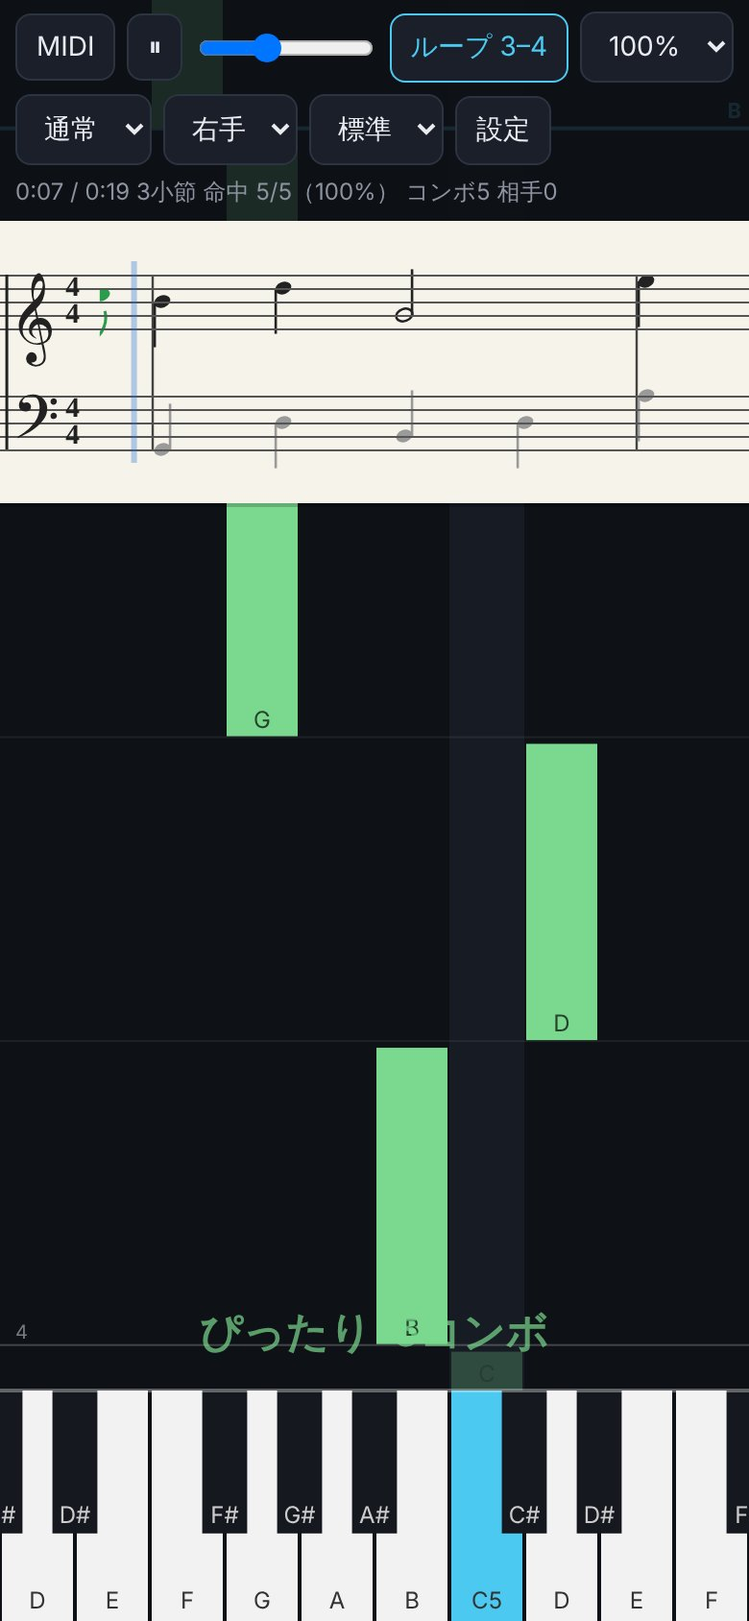
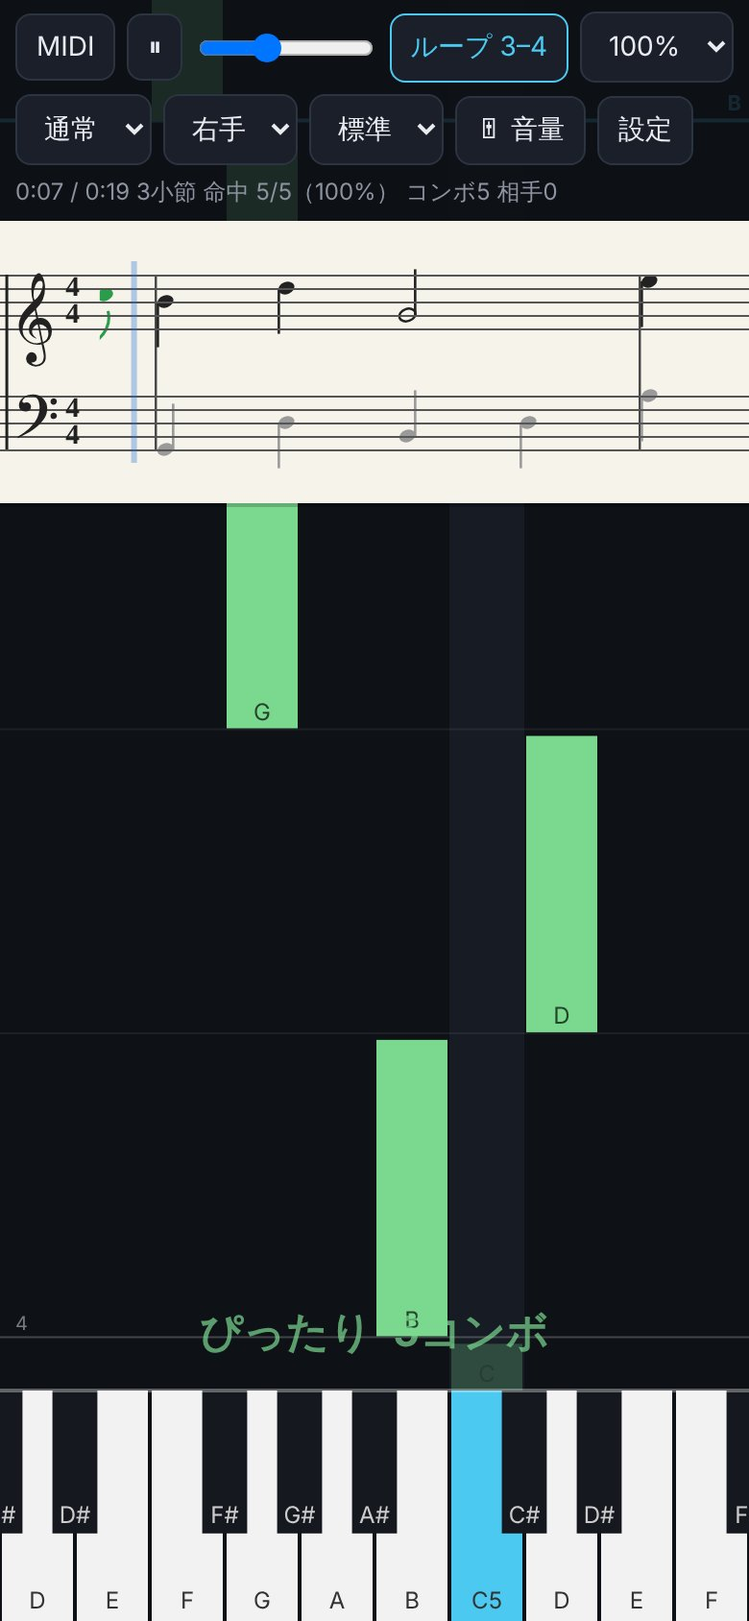
画面に出したままのミキサーを追加（全体・自分の音・伴奏・カウント・メトロノーム、パートごとの音量・ミュート・ソロ）
Claude-Session: https://claude.ai/code/session_01Ftk17LdcXJRbzQtFfC2ce1

diff --git a/piano-falls.html b/piano-falls.html
@@ -3,7 +3,29 @@
 <style>
 :root{--bg:#0e1116;--p:#1a1f29;--fg:#e8ebf0;--d:#8d93a0;--ac:#4cc9f0}
 *{box-sizing:border-box}html,body{margin:0;height:100%;background:var(--bg);color:var(--fg);font:14px system-ui,"Hiragino Sans","Noto Sans JP",sans-serif;overflow:hidden;touch-action:none}
-#c{position:absolute;inset:0;width:100%;height:100%}
+#c{position:absolute;top:0;left:0;width:100%;height:100%}
+#mx{position:absolute;left:0;width:230px;overflow:auto;background:#141820;border-right:1px solid #2c3442;padding:8px;touch-action:pan-y;font-size:13px;z-index:2}
+#mx.float{width:min(300px,88vw);border:1px solid #2c3442;border-radius:0 12px 12px 0;box-shadow:4px 0 16px #0008}
+#mx .mxh{display:flex;align-items:center;gap:6px;margin-bottom:6px}#mx .mxh b{flex:1}
+#mx button{padding:4px 8px;font-size:12px;border-radius:6px}
+#mx .mxg{background:#1a1f29;border:1px solid #2c3442;border-radius:8px;padding:6px;margin-bottom:8px}
+#mx .mr{display:flex;align-items:center;gap:6px;margin:3px 0}
+#mx .mr .mb{width:98px;padding:4px 6px;text-align:left;white-space:nowrap;overflow:hidden;text-overflow:ellipsis}
+#mx .mb.off{opacity:.45;text-decoration:line-through}
+#mx input[type=range]{flex:1;min-width:0;accent-color:var(--ac)}
+#mx .mv{width:26px;text-align:right;color:var(--d);font-variant-numeric:tabular-nums}
+#mx .mxs{color:var(--ac);font-size:12px;margin:8px 2px 4px}
+#mx .stp{border-bottom:1px solid #232a35;padding:4px 2px}
+#mx .stp .t{display:flex;align-items:center;gap:5px}
+#mx .stp .t span{flex:1;white-space:nowrap;overflow:hidden;text-overflow:ellipsis}
+#mx .stp i{width:10px;height:10px;border-radius:50%;flex:none}
+#mx .stp .sb{padding:2px 7px;min-width:26px}
+#mx .sb.on{background:var(--ac);color:#06212b;border-color:var(--ac)}
+#mx .stp .bt{display:flex;align-items:center;gap:5px;margin-top:3px}
+#mx .stp select{padding:3px 4px;font-size:12px}
+#mx .stp.dim span{opacity:.5}
+#mx .n{margin:4px 2px 0}
+#mxb.on{border-color:var(--ac);color:var(--ac)}
 #bar{position:absolute;left:0;right:0;top:0;display:flex;gap:6px;flex-wrap:wrap;align-items:center;padding:calc(6px + env(safe-area-inset-top,0px)) 8px 6px;background:rgba(14,17,22,.88)}
 button,select,.b,textarea{background:var(--p);color:var(--fg);border:1px solid #2c3442;border-radius:8px;padding:8px 10px;font:inherit}
 #lp.on{border-color:var(--ac);color:var(--ac)}
@@ -20,6 +42,17 @@ button,select,.b,textarea{background:var(--p);color:var(--fg);border:1px solid #
 [hidden]{display:none!important}
 </style></head><body>
 <canvas id="c"></canvas>
+<div id="mx" hidden><div class="mxh"><b>音量</b><button id="mxr" title="パートの音量を初期値に戻し、ミュートとソロを解除">初期値に戻す</button><button id="mxc" title="閉じる">✕</button></div>
+<div class="mxg">
+<div class="mr"><button class="mb" data-m="all" title="押すとミュート">全体</button><input type="range" id="vAll" min="0" max="100" value="100"><span class="mv"></span></div>
+<div class="mr"><button class="mb" data-m="mine" title="押すとミュート">自分の音</button><input type="range" id="pv" min="0" max="100" value="80"><span class="mv"></span></div>
+<div class="mr"><button class="mb" data-m="back" title="押すとミュート">伴奏</button><input type="range" id="vBk" min="0" max="100" value="100"><span class="mv"></span></div>
+<div class="mr"><button class="mb" data-m="ci" title="押すとカウントのオン・オフ">カウント</button><input type="range" id="vCt" min="0" max="100" value="80"><span class="mv"></span></div>
+<div class="mr"><button class="mb" data-m="mt" title="押すとメトロノームのオン・オフ">メトロノーム</button><input type="range" id="vMt" min="0" max="100" value="70"><span class="mv"></span></div>
+</div>
+<div class="mxs">自分が弾くパート</div><div id="mxP"></div>
+<div class="mxs">伴奏のパート</div><div id="mxA"></div>
+<div class="n">M＝ミュート、S＝ソロ（押したパートだけ鳴らす）。左下の欄で「演奏（自分で弾く）／自動（伴奏）／消音」を変えられます。</div></div>
 <div id="res" hidden><div id="rk" class="k"></div><div id="rsS" class="s"></div><div id="rsc"></div><table id="rt2"></table><div id="rb" style="color:#7bd88f;min-height:1.4em"></div><button id="rx">閉じる</button></div>
 <div id="bar">
 <label class="b">MIDI<input id="f" type="file" accept=".mid,.midi" hidden></label>
@@ -29,10 +62,9 @@ button,select,.b,textarea{background:var(--p);color:var(--fg);border:1px solid #
 <select id="md"><option value="free">通常<option value="wait">待つ</select>
 <select id="hd"><option value="B">両手<option value="R">右手<option value="L">左手</select>
 <select id="zm"><option value=".6">遅<option value="1" selected>標準<option value="1.6">速</select>
-<button id="cf">設定</button><span id="st">MIDIファイルを読み込んでください</span></div>
+<button id="mxb">🎚 音量</button><button id="cf">設定</button><span id="st">MIDIファイルを読み込んでください</span></div>
 <div id="pn" hidden><h3>最近開いた曲</h3><div id="rc" class="n">まだありません</div>
 <h3>トラック（演奏＝自分で弾く／自動＝伴奏）</h3><div id="tl"></div>
-<div class="r"><span>自分が弾く音の大きさ</span><input id="pv" type="range" min="0" max="100" value="80" style="width:45%"></div>
 <div class="r"><span>移調（半音）</span><select id="tp"></select></div>
 <div class="n">右の欄は、そのトラックをどちらの手で弾くかです。「分割」は、下の高さを境に、上を右手、下を左手にします。上のバーの「両手／右手／左手」で片手だけ練習すると、もう片方は自動で鳴ります。</div>
 <div class="r"><span>分割する高さ（ここから上が右手）</span><select id="sp"></select></div>
@@ -72,7 +104,7 @@ button,select,.b,textarea{background:var(--p);color:var(--fg);border:1px solid #
 <div id="mi" style="margin-top:6px;color:var(--d)"></div></div>
 <script>
 const $=id=>document.getElementById(id),cv=$('c'),g=cv.getContext('2d');
-let W,H;const rs=()=>{const d=devicePixelRatio||1;W=innerWidth;H=innerHeight;cv.width=W*d;cv.height=H*d;g.setTransform(d,0,0,d,0,0);layout()};
+let W,H;const rs=()=>{const d=devicePixelRatio||1;W=innerWidth-(window.OFF||0);H=innerHeight;cv.style.left=(innerWidth-W)+'px';cv.style.width=W+'px';cv.width=W*d;cv.height=H*d;g.setTransform(d,0,0,d,0,0);layout()};
 const S={notes:[],tr:[],len:0,pos:0,playing:false,rate:1,pos0:0,t0:0,lo:48,hi:84,hit:0,miss:0,x:{},ww:10,ai:0,mi:0,wi:0,li:0,waiting:false,
 bars:[],beats:[],loop:null,la:null,nn:0,kb:48,kbOn:false,wl:0,nw:22,sp:60,bt:[],bk:0,bk2:0,cf:null,fg:{},sel:-1,rects:[]};
 const held=new Map(),COL=['#4cc9f0','#f72585','#b5e48c','#ffd166','#9d4edd','#ff9e00','#06d6a0'],isB=p=>[1,3,6,8,10].includes(p%12),now=()=>performance.now();
@@ -97,13 +129,15 @@ if(KR[m]){let[lo,hi]=KR[m];if(sel.length&&hi-lo<60){const sh=Math.round(((mn+mx)
 else setView(Math.max(21,mn-1),Math.min(108,mx+1),m=='play'?10:7)}
 // ---- 設定の保存 ----
 const PK='piano-falls-prefs';let PR={};try{PR=JSON.parse(localStorage.getItem(PK))||{}}catch(e){}
-const sv=()=>{try{localStorage.setItem(PK,JSON.stringify({nn:S.nn,bl:$('bl').checked,zm:$('zm').value,kr:$('kr').value=='man'?undefined:$('kr').value,cm:$('cm').value,mt:$('mt').checked,ci:$('ci').checked,wa:$('wa').value,hd:$('hd').value,sp:S.sp,pv:$('pv').value,snd:$('snd').value,pd:$('pd').checked,sh:$('sh').value,ss:$('ss').value}))}catch(e){}};
+const sv=()=>{try{localStorage.setItem(PK,JSON.stringify({nn:S.nn,bl:$('bl').checked,zm:$('zm').value,kr:$('kr').value=='man'?undefined:$('kr').value,cm:$('cm').value,mt:$('mt').checked,ci:$('ci').checked,wa:$('wa').value,hd:$('hd').value,sp:S.sp,pv:$('pv').value,vAll:$('vAll').value,vBk:$('vBk').value,vCt:$('vCt').value,vMt:$('vMt').value,mxo:MX.open,snd:$('snd').value,pd:$('pd').checked,sh:$('sh').value,ss:$('ss').value}))}catch(e){}};
 // ---- 音 ----
-let ac,mg;function au(){if(!ac){ac=new AudioContext();mg=ac.createGain();mg.gain.value=.5;mg.connect(ac.destination)}if(ac.state!='running')ac.resume();return ac}
+// 音の行き先：各パート→伴奏(bB)、自分の音(bM)、カウント(bC)、メトロノーム(bT)→全体(mg)→出力
+let ac,mg,bM,bB,bC,bT,OUTD;function au(){if(!ac){ac=new AudioContext();mg=ac.createGain();mg.connect(ac.destination);
+[bM,bB,bC,bT]=[0,0,0,0].map(()=>{const x=ac.createGain();x.connect(mg);return x});mixApply()}if(ac.state!='running')ac.resume();return ac}
 function simpleTone(p,v,when,dur){const a=au(),o=a.createOscillator(),o2=a.createOscillator(),e=a.createGain(),f=440*2**((p-69)/12),vv=v/127*.3;
 o.type='triangle';o2.type='sine';o.frequency.value=f;o2.frequency.value=f*2;
 e.gain.setValueAtTime(.0001,when);e.gain.linearRampToValueAtTime(vv,when+.008);e.gain.exponentialRampToValueAtTime(vv*.4,when+.7);
-o.connect(e);o2.connect(e);e.connect(mg);o.start(when);o2.start(when);
+o.connect(e);o2.connect(e);e.connect(OUTD||mg);o.start(when);o2.start(when);
 const rel=t=>{e.gain.cancelScheduledValues(t);e.gain.setValueAtTime(vv*.3,t);e.gain.exponentialRampToValueAtTime(.0001,t+.25);o.stop(t+.3);o2.stop(t+.3)};
 if(dur!=null)rel(when+dur);return rel}
 const relAt=(e,t,tau)=>{t=Math.max(t,ac.currentTime);try{e.gain.cancelAndHoldAtTime(t)}catch(x){e.gain.cancelScheduledValues(t)}e.gain.setTargetAtTime(.0001,t,tau);return t};
@@ -112,10 +146,10 @@ function pno(p,v,when,dur){const a=au(),f=440*2**((p-69)/12),vel=v/127,vv=vel*.3
 const e=a.createGain(),lp=a.createBiquadFilter();lp.type='lowpass';lp.frequency.setValueAtTime(Math.min(14000,f*(3+10*vel)),when);lp.frequency.exponentialRampToValueAtTime(Math.max(f*1.5,200),when+T*.7);
 e.gain.setValueAtTime(.0001,when);e.gain.linearRampToValueAtTime(vv,when+.004);e.gain.exponentialRampToValueAtTime(vv*.35,when+.25);e.gain.exponentialRampToValueAtTime(.0001,when+T);
 const os=[['triangle',1,1],['sine',2.003,.35],['sine',3.01,.12]].map(([ty,m,g0])=>{const o=a.createOscillator(),gg=a.createGain();o.type=ty;o.frequency.value=f*m;gg.gain.value=g0;o.connect(gg);gg.connect(lp);o.start(when);o.stop(when+T+.1);return o});
-lp.connect(e);e.connect(mg);const rel=t=>{t=relAt(e,t,.08);for(const o of os)try{o.stop(t+.5)}catch(x){}};if(dur!=null)rel(when+dur);return rel}
+lp.connect(e);e.connect(OUTD||mg);const rel=t=>{t=relAt(e,t,.08);for(const o of os)try{o.stop(t+.5)}catch(x){}};if(dur!=null)rel(when+dur);return rel}
 // ドラム（チャンネル10）の簡単な音
 let NB;function drum(p,v,when){const a=au();if(!NB){NB=a.createBuffer(1,a.sampleRate*.7,a.sampleRate);const d=NB.getChannelData(0);for(let i=0;i<d.length;i++)d[i]=Math.random()*2-1}
-const vv=v/127*.4,e=a.createGain();e.connect(mg);
+const vv=v/127*.4,e=a.createGain();e.connect(OUTD||mg);
 if(p==35||p==36){const o=a.createOscillator();o.frequency.setValueAtTime(150,when);o.frequency.exponentialRampToValueAtTime(45,when+.12);e.gain.setValueAtTime(vv*1.6,when);e.gain.exponentialRampToValueAtTime(.001,when+.25);o.connect(e);o.start(when);o.stop(when+.3)}
 else{const s=a.createBufferSource(),f=a.createBiquadFilter(),cym=[42,44,46,49,51,52,53,55,57,59].includes(p),L=[46,49,52,55,57].includes(p)?.6:cym?.08:.18;s.buffer=NB;f.type=cym?'highpass':'bandpass';f.frequency.value=cym?7000:p<=41?400:1800;
 e.gain.setValueAtTime(vv,when);e.gain.exponentialRampToValueAtTime(.001,when+L);s.connect(f);f.connect(e);s.start(when);s.stop(when+L+.05)}return()=>{}}
@@ -131,10 +165,10 @@ function loadSong(){if($('snd').value!='hq')return;loadInst(GM[0]);for(let i=0;i
 function sndUI(){const v=Object.entries(INST),ok=v.filter(x=>x[1].st=='ok').length,ld=v.filter(x=>x[1].st=='loading').length,er=v.filter(x=>x[1].st=='err').length;
 $('si').textContent=$('snd').value!='hq'?'':ld?'音色を読み込み中…（'+ok+'/'+v.length+'）。読み込むまでは内蔵の音で鳴ります。':er?'読み込めない音色がありました（'+er+'）。その楽器は内蔵の音で鳴ります。ネット接続を確認してください。':v.length?'音色を読み込みました（'+ok+'）':''}
 function smp(o,p,v,when,dur){let b=null,q=p;for(let d=0;d<=12&&!b;d++)for(const x of[p-d,p+d]){if(o.buf[pname(x)]){b=o.buf[pname(x)];q=x;break}}if(!b)return null;
-const a=au(),src=a.createBufferSource(),e=a.createGain(),vol=Math.pow(v/127,1.5)*.9;src.buffer=b;src.playbackRate.value=2**((p-q)/12);e.gain.setValueAtTime(vol,when);src.connect(e);e.connect(mg);src.start(when);
+const a=au(),src=a.createBufferSource(),e=a.createGain(),vol=Math.pow(v/127,1.5)*.9;src.buffer=b;src.playbackRate.value=2**((p-q)/12);e.gain.setValueAtTime(vol,when);src.connect(e);e.connect(OUTD||mg);src.start(when);
 const rel=t=>{t=relAt(e,t,.09);try{src.stop(t+.8)}catch(x){}};if(dur!=null)rel(when+dur);return rel}
 // 音を鳴らす（ti＝トラック番号。音色の設定に合わせて選ぶ）
-function tone(p,v,when,dur,ti){const m=$('snd').value,t=S.tr[ti];if(t&&t.c==9)return drum(p,v,when);if(m=='simple')return simpleTone(p,v,when,dur);
+function tone(p,v,when,dur,ti,dest){au();OUTD=dest||bB;const m=$('snd').value,t=S.tr[ti];if(t&&t.c==9)return drum(p,v,when);if(m=='simple')return simpleTone(p,v,when,dur);
 if(m=='hq'){const n=instOf(ti)||GM[0];for(const k of[n,GM[0]]){const o=INST[k];if(o&&o.st=='ok'){const r=smp(o,p,v,when,dur);if(r)return r}}}return pno(p,v,when,dur)}
 // ---- MIDI解析 ----
 function parse(buf){const d=new DataView(buf);let o=0;const u32=()=>{const v=d.getUint32(o);o+=4;return v},u16=()=>{const v=d.getUint16(o);o+=2;return v},vl=()=>{let v=0,b;do{b=d.getUint8(o++);v=v<<7|b&127}while(b&128);return v};
@@ -176,8 +210,8 @@ if($('kr').value=='man')$('kr').value='play';fit();buildSheet();loadSong();S.pla
 const pn=all.filter(isPlay);if(pn.length)S.kb=Math.max(12,Math.min(96,Math.floor(Math.min(...pn.map(n=>n.p))/12)*12));
 $('pl').textContent='▶';trk();loopUI()}
 function trk(){$('tl').innerHTML='';S.tr.forEach((t,i)=>{const r=document.createElement('div');r.className='r';
-r.innerHTML=`<i style="background:${COL[i%7]}"></i><span>${t.name}（${t.n}）${t.c==9?' ドラム':''}</span><select><option value="play">演奏<option value="auto">自動<option value="off">消音</select><select><option value="R">右手<option value="L">左手<option value="S">分割</select><input type="range" min="0" max="100" value="${t.vol??100}" title="音量">`;r.classList.add('tw');
-const[s,hs]=r.querySelectorAll('select');s.value=t.m;s.onchange=()=>{t.m=s.value;fit();buildSheet();loadSong();pushState()};hs.value=t.h;hs.onchange=()=>{t.h=hs.value;fit();buildSheet()};r.querySelector('input').oninput=e=>{t.vol=+e.target.value};$('tl').appendChild(r)})}
+r.innerHTML=`<i style="background:${COL[i%7]}"></i><span>${t.name}（${t.n}）${t.c==9?' ドラム':''}</span><select><option value="play">演奏<option value="auto">自動<option value="off">消音</select><select><option value="R">右手<option value="L">左手<option value="S">分割</select>`;
+const[s,hs]=r.querySelectorAll('select');s.value=t.m;s.onchange=()=>{t.m=s.value;fit();buildSheet();loadSong();pushState();renderMix()};hs.value=t.h;hs.onchange=()=>{t.h=hs.value;fit();buildSheet();renderMix()};$('tl').appendChild(r)});renderMix()}
 // ---- テンポ（25〜150%、5%刻み）----
 for(let r=25;r<=150;r+=5){const o=new Option(r+'%',r/100);if(r==100)o.selected=true;$('rt').add(o)}
 function setRateUI(r){const s=$('rt');let o=[...s.options].find(o=>Math.abs(o.value-r)<1e-6);if(!o){o=new Option(Math.round(r*100)+'%',r);s.add(o)}s.value=o.value}
@@ -195,19 +229,19 @@ if(S.loop){setLoop(null)}else if(S.la==null){S.la=b;loopUI();return}else{let a=S
 $('ls').onclick=()=>{if(!S.len)return;let a=+$('la').value,z=+$('lz').value;if(!(a>=1&&z>=1))return;if(z<a)[a,z]=[z,a];setLoop({a,b:z});applyLoopLocal()};
 $('lc').onclick=()=>{setLoop(null);pushState()};
 // ---- 再生 ----
-function clk(when,down){const a=au(),o=a.createOscillator(),e=a.createGain();o.frequency.value=down?1600:1000;
-e.gain.setValueAtTime(.0001,when);e.gain.linearRampToValueAtTime(down?.35:.2,when+.002);e.gain.exponentialRampToValueAtTime(.0001,when+.05);o.connect(e);e.connect(mg);o.start(when);o.stop(when+.06)}
+function clk(when,down,dest){const a=au();OUTD=dest||bT;const o=a.createOscillator(),e=a.createGain();o.frequency.value=down?1600:1000;
+e.gain.setValueAtTime(.0001,when);e.gain.linearRampToValueAtTime(down?.35:.2,when+.002);e.gain.exponentialRampToValueAtTime(.0001,when+.05);o.connect(e);e.connect(OUTD||mg);o.start(when);o.stop(when+.06)}
 // 小節の拍数と1拍の長さ（原曲の秒）
 function meter(t){const i=Math.max(0,barAt(t)-1),a=S.bars[i]??0,b=S.bars[i+1]??a+2,n=1+S.beats.filter(x=>x>a+1e-6&&x<b-1e-6).length;return[n,(b-a)/n,a]}
-function beatsIn(a,b,off,p){if(!$('mt').checked)return;for(const x of S.bt){if(x.t>=b)break;if(x.t>=a)clk(ac.currentTime+Math.max(0,(x.t+off-p)/S.rate),x.d)}}
+function beatsIn(a,b,off,p){if(!$('mt').checked)return;for(const x of S.bt){if(x.t>=b)break;if(x.t>=a)clk(ac.currentTime+Math.max(0,(x.t+off-p)/S.rate),x.d,bT)}}
 // カウントの残りを鳴らす（cf＝曲が鳴り始める位置、pos＝今の位置）
-function countClicks(cf,pos,rate){if(!$('ci').checked||!S.bars.length)return;const[n,bl]=meter(cf);for(let k=1;k<=n;k++){const tb=cf-k*bl;if(tb>=pos-.06)clk(au().currentTime+Math.max(0,(tb-pos)/rate),k==n)}}
+function countClicks(cf,pos,rate){if(!$('ci').checked||!S.bars.length)return;const[n,bl]=meter(cf);for(let k=1;k<=n;k++){const tb=cf-k*bl;if(tb>=pos-.06)clk(au().currentTime+Math.max(0,(tb-pos)/rate),k==n,bC)}}
 function startAt(pos,t0,rate,from=pos){S.pos0=pos;S.t0=t0;S.rate=rate;S.playing=true;S.waiting=false;S.cf=from>pos+.001?from:null;const i=idx(from);S.bk=from;
 S.ai=S.mi=S.wi=i;for(let k=i;k<S.notes.length;k++)S.notes[k].j=0;const L=loopSec();S.li=idx(L?L[0]:0);S.bk2=L?L[0]:0;if(from<.01)resetScore();S.full=from<.01&&!L;$('pl').textContent='⏸';setRateUI(rate);au()}
 function stopP(p){S.pos=Math.max(0,Math.min(p,S.len));S.playing=false;$('pl').textContent='▶'}
 function doPlay(p){const L=loopSec();if(L&&p>=L[1]-.01)p=L[0];
 if($('ci').checked&&S.bars.length){const[n,bl]=meter(p),st=p-n*bl;au();startAt(st,now(),S.rate,p);countClicks(p,st,S.rate)}else startAt(p,now()+1200,S.rate);pushState()}
-function sched(n,d){const v=S.tr[n.tr].vol??100;if(v>0&&role(n)=='auto'&&!peerHas(S.tr[n.tr].c+1))tone(n.p,n.v*v/100,ac.currentTime+Math.max(0,d/S.rate),(($('pd').checked?n.se:n.e)-n.t)/S.rate,n.tr)}
+function sched(n,d){const t=S.tr[n.tr];if(role(n)=='auto'&&trGain(t)>0&&!peerHas(t.c+1)){const w=ac.currentTime+Math.max(0,d/S.rate);tone(n.p,n.v,w,(($('pd').checked?n.se:n.e)-n.t)/S.rate,n.tr,tnode(t));t.hit=w}}
 function tick(){if(!S.playing)return;let p=posNow();const N=S.notes.length,nt=S.notes,L=loopSec();
 if(L&&p>=L[1]){const n=L[1]-L[0];while(p>=L[1]){S.pos0-=n;p-=n}const i=idx(L[0]);for(let k=i;k<N&&nt[k].t<L[1];k++)nt[k].j=0;S.mi=S.wi=i;S.ai=Math.max(i,S.li);S.li=i;S.bk=Math.max(L[0],S.bk2);S.bk2=L[0]}
 if($('md').value=='wait'){while(S.wi<N&&(nt[S.wi].j||!isPlay(nt[S.wi])))S.wi++;
@@ -266,6 +300,32 @@ for(let j=0;j<Math.abs(sf);j++){const s=(sf>0?SPOS_S:SPOS_F)[j],x=ls*(4.6+.9*j),
 g.font='bold '+(ls*2.1)+'px Georgia,serif';const tx=ls*(5.4+.9*Math.abs(sf));for(const st of['R','L']){g.fillText(tsc[1],tx,yOf(st,6));g.fillText(2**tsc[2],tx,yOf(st,2))}
 // 今の位置
 g.fillStyle='#1d6fd155';g.fillRect(X-1,tT-ls,3,bB-tT+2*ls)}
+// ---- ミキサー ----
+const MX={mu:{}};
+const trGain=t=>{const solo=S.tr.some(x=>x.so);return t.mu||(solo&&!t.so)?0:(t.vol??100)/100};
+function tnode(t){if(!t.node||t.node.context!==ac){t.node=ac.createGain();t.node.connect(bB);t.node.gain.value=trGain(t)}return t.node}
+function mixApply(){if(!ac)return;const v=(id,k)=>MX.mu[k]?0:$(id).value/100,T=ac.currentTime;
+mg.gain.setTargetAtTime(.5*v('vAll','all'),T,.02);bM.gain.setTargetAtTime(v('pv','mine'),T,.02);bB.gain.setTargetAtTime(v('vBk','back'),T,.02);
+bC.gain.setTargetAtTime(1.2*$('vCt').value/100,T,.02);bT.gain.setTargetAtTime(1.2*$('vMt').value/100,T,.02);
+for(const t of S.tr)if(t.node&&t.node.context===ac)t.node.gain.setTargetAtTime(trGain(t),T,.02)}
+function mixTop(){for(const b of document.querySelectorAll('#mx .mb')){const k=b.dataset.m;b.classList.toggle('off',k=='ci'||k=='mt'?!$(k).checked:!!MX.mu[k])}
+for(const r of document.querySelectorAll('#mx .mr'))r.querySelector('.mv').textContent=r.querySelector('input').value}
+function renderMix(){const P=$('mxP'),A=$('mxA');P.innerHTML='';A.innerHTML='';
+S.tr.forEach((t,i)=>{const d=document.createElement('div');d.className='stp'+(t.m=='off'?' dim':'');
+d.innerHTML=`<div class="t"><i></i><span></span><button class="sb" title="ミュート">M</button><button class="sb" title="ソロ">S</button></div><div class="bt"><select><option value="play">演奏<option value="auto">自動<option value="off">消音</select><input type="range" min="0" max="100"><span class="mv"></span></div>`;
+const[dot]=d.getElementsByTagName('i'),[nm]=d.getElementsByTagName('span'),[bm,bs]=d.querySelectorAll('.sb'),sel=d.querySelector('select'),rg=d.querySelector('input'),mv=d.querySelector('.mv');
+dot.style.background=$('cm').value=='hand'&&t.c!=9?HC[t.h=='L'?'L':'R']:COL[i%7];nm.textContent=t.name+(t.c==9?'（ドラム）':'');nm.title=t.name;
+bm.classList.toggle('on',!!t.mu);bs.classList.toggle('on',!!t.so);sel.value=t.m;rg.value=t.vol??100;mv.textContent=rg.value;t.dot=dot;t.lit=false;
+bm.onclick=()=>{t.mu=!t.mu;bm.classList.toggle('on',t.mu);mixApply()};bs.onclick=()=>{t.so=!t.so;bs.classList.toggle('on',t.so);mixApply()};
+rg.oninput=()=>{t.vol=+rg.value;mv.textContent=rg.value;mixApply()};
+sel.onchange=()=>{t.m=sel.value;fit();buildSheet();loadSong();pushState();trk()};
+(t.m=='play'?P:A).appendChild(d)});if(!P.children.length)P.innerHTML='<div class="n">（なし）</div>';if(!A.children.length)A.innerHTML='<div class="n">（なし）</div>'}
+function mixFlash(){if(!ac||$('mx').hidden)return;const T=ac.currentTime;for(const t of S.tr)if(t.dot){const on=t.hit!=null&&T>=t.hit&&T-t.hit<.12;if(on!==t.lit){t.lit=on;t.dot.style.boxShadow=on?'0 0 0 3px #ffffffb0':''}}}
+// 置き方：広い画面は左に固定してノーツの所を狭める。狭い画面は上に重ねる
+var OFF=0;const mxDock=()=>innerWidth>=900;
+function mxPlace(){const m=$('mx'),open=!m.hidden,dock=open&&mxDock();OFF=dock?230:0;m.classList.toggle('float',open&&!dock);
+m.style.top=$('bar').offsetHeight+'px';m.style.bottom=dock?'0':kh()+'px';rs()}
+function mxShow(on,save){$('mx').hidden=!on;$('mxb').classList.toggle('on',on);if(save){MX.open=on;sv()}mxPlace()}
 // ---- 採点 ----
 function resetScore(){Object.assign(S,{hit:0,miss:0,pf:0,el:0,lt:0,wr:0,cb:0,mcb:0})}resetScore();
 function fb(t,c){S.fb={t,c,at:now()}}
@@ -279,7 +339,7 @@ $('rsc').textContent=sc+'点（'+bk+'、テンポ'+Math.round(S.rate*100)+'%）'
 $('rt2').innerHTML=[['ぴったり',S.pf],['早い',S.el],['遅い',S.lt],['ミス',S.miss],['余計な音',S.wr],['最大コンボ',S.mcb]].map(r=>`<tr><td>${r[0]}</td><td>${r[1]}</td></tr>`).join('');
 $('rb').textContent=best?(old?'自己ベスト更新！（前回まで '+old.sc+'点）':'初めての記録です'):'自己ベスト '+old.sc+'点';$('res').hidden=false;rcUI()}
 $('rx').onclick=()=>$('res').hidden=true;
-function press(p){const a=au();if(held.has(p))return;const so=sus.get(p);if(so){so(a.currentTime);sus.delete(p)}held.set(p,tone(p,127*$('pv').value/100,a.currentTime,null,Math.max(0,S.tr.findIndex(t=>t.m=='play'))));
+function press(p){const a=au();if(held.has(p))return;const so=sus.get(p);if(so){so(a.currentTime);sus.delete(p)}held.set(p,tone(p,110,a.currentTime,null,Math.max(0,S.tr.findIndex(t=>t.m=='play')),bM));
 if(!S.playing)return;const t=posNow(),wt=$('md').value=='wait',ea=wt?.08:.18,la=wt?.4:.18;let b=null,bd=9;
 // 待つモードでは、判定線に届く0.08秒前より早く押しても数えない
 for(const n of S.notes){if(n.t>t+ea)break;if(n.p==p&&!n.j&&isPlay(n)&&t-n.t<=la&&Math.abs(n.t-t)<bd){b=n;bd=Math.abs(n.t-t)}}
@@ -295,17 +355,17 @@ const setMan=()=>{$('kr').value='man'};
 function pinStart(){const[a,b]=[...pz.values()];pin={d:Math.hypot(a.x-b.x,a.y-b.y)||1,nw:S.nw,cw:S.wl+(a.x+b.x)/2/S.ww}}
 function pinMove(){const[a,b]=[...pz.values()],d=Math.hypot(a.x-b.x,a.y-b.y)||1,mx=(a.x+b.x)/2;S.nw=pin.nw*pin.d/d;clampView();S.wl=pin.cw-mx/(W/S.nw);clampView();layout();setMan()}
 cv.addEventListener('pointerdown',e=>{cv.setPointerCapture(e.pointerId);
-if(e.clientY<H-kh()){pz.set(e.pointerId,{x:e.clientX,y:e.clientY});tap=pz.size==1?{id:e.pointerId,x:e.clientX,y:e.clientY,t:now()}:null;if(pz.size==2)pinStart();return}
-const p=keyAt(e.clientX,e.clientY);ptr[e.pointerId]=p;if(p!=null)press(p)});
-cv.addEventListener('pointermove',e=>{if(pz.has(e.pointerId)){pz.set(e.pointerId,{x:e.clientX,y:e.clientY});if(tap&&Math.hypot(e.clientX-tap.x,e.clientY-tap.y)>10)tap=null;if(pz.size==2&&pin)pinMove();return}
-if(!(e.pointerId in ptr))return;const o=ptr[e.pointerId],q=keyAt(e.clientX,e.clientY);if(q===o)return;if(o!=null)lift(o);if(q!=null)press(q);ptr[e.pointerId]=q});
-const up=e=>{if(pz.has(e.pointerId)){if(tap&&tap.id==e.pointerId&&e.type=='pointerup'&&now()-tap.t<500)tapAt(e.clientX,e.clientY);tap=null;pz.delete(e.pointerId);if(pz.size==2)pinStart();else pin=null;return}if(!(e.pointerId in ptr))return;const o=ptr[e.pointerId];if(o!=null)lift(o);delete ptr[e.pointerId]};cv.addEventListener('pointerup',up);cv.addEventListener('pointercancel',up);
+if(e.clientY<H-kh()){pz.set(e.pointerId,{x:(e.clientX-OFF),y:e.clientY});tap=pz.size==1?{id:e.pointerId,x:(e.clientX-OFF),y:e.clientY,t:now()}:null;if(pz.size==2)pinStart();return}
+const p=keyAt((e.clientX-OFF),e.clientY);ptr[e.pointerId]=p;if(p!=null)press(p)});
+cv.addEventListener('pointermove',e=>{if(pz.has(e.pointerId)){pz.set(e.pointerId,{x:(e.clientX-OFF),y:e.clientY});if(tap&&Math.hypot((e.clientX-OFF)-tap.x,e.clientY-tap.y)>10)tap=null;if(pz.size==2&&pin)pinMove();return}
+if(!(e.pointerId in ptr))return;const o=ptr[e.pointerId],q=keyAt((e.clientX-OFF),e.clientY);if(q===o)return;if(o!=null)lift(o);if(q!=null)press(q);ptr[e.pointerId]=q});
+const up=e=>{if(pz.has(e.pointerId)){if(tap&&tap.id==e.pointerId&&e.type=='pointerup'&&now()-tap.t<500)tapAt((e.clientX-OFF),e.clientY);tap=null;pz.delete(e.pointerId);if(pz.size==2)pinStart();else pin=null;return}if(!(e.pointerId in ptr))return;const o=ptr[e.pointerId];if(o!=null)lift(o);delete ptr[e.pointerId]};cv.addEventListener('pointerup',up);cv.addEventListener('pointercancel',up);
 function saveFg(){try{localStorage.setItem(S.fk,JSON.stringify(S.fg))}catch(e){}}
 function setFg(i,f){if(f)S.fg[i]=f;else delete S.fg[i];saveFg()}
 function tapAt(x,y){if(!$('fe').checked||y<S.shB)return;let hit=-1;for(const r of S.rects)if(x>=r[0]-3&&x<=r[0]+r[2]+3&&y>=r[1]&&y<=r[1]+r[3])hit=r[4];
 if(hit<0){S.sel=-1;return}if(S.sel==hit||'ontouchstart'in window){const f=(S.fg[hit]||0)+1;setFg(hit,f>5?0:f)}S.sel=hit}
 cv.addEventListener('wheel',e=>{e.preventDefault();const dx=Math.abs(e.deltaX)>Math.abs(e.deltaY)?e.deltaX:0;
-if(e.shiftKey||dx){S.wl+=(dx||e.deltaY)/S.ww*.5}else{const cw=S.wl+e.clientX/S.ww;S.nw*=Math.exp(e.deltaY*.0015);clampView();S.wl=cw-e.clientX/(W/S.nw)}clampView();layout();setMan()},{passive:false});
+if(e.shiftKey||dx){S.wl+=(dx||e.deltaY)/S.ww*.5}else{const cw=S.wl+(e.clientX-OFF)/S.ww;S.nw*=Math.exp(e.deltaY*.0015);clampView();S.wl=cw-(e.clientX-OFF)/(W/S.nw)}clampView();layout();setMan()},{passive:false});
 // パソコンのキーボード（物理的なキーの位置で判定するので、日本語配列でも同じ位置）
 const KM={KeyZ:0,KeyS:1,KeyX:2,KeyD:3,KeyC:4,KeyV:5,KeyG:6,KeyB:7,KeyH:8,KeyN:9,KeyJ:10,KeyM:11,Comma:12,KeyL:13,Period:14,Semicolon:15,Slash:16,
 KeyQ:12,Digit2:13,KeyW:14,Digit3:15,KeyE:16,KeyR:17,Digit5:18,KeyT:19,Digit6:20,KeyY:21,Digit7:22,KeyU:23,KeyI:24,Digit9:25,KeyO:26,Digit0:27,KeyP:28,BracketLeft:29,Equal:30,BracketRight:31},kd={};
@@ -342,7 +402,7 @@ if(S.nn&&hh>=(f?28:14)&&xs[1]>=10)lab(nm(n.p),xs[0]+1,xs[1]-2,yb,'#000000b0');
 if(!fresh&&i==S.sel&&$('fe').checked){g.globalAlpha=1;g.strokeStyle='#fff';g.lineWidth=2;g.strokeRect(xs[0]+1,top,xs[1]-2,hh)}
 if(!fresh&&n.t<=p&&n.e>p&&n.j!=1)act[n.p]=c}g.globalAlpha=1};
 S.rects=[];pass(0,0,false);if(L&&p+win>L[1])pass(idx(L[0]),L[1]-L[0],true);
-drawSheet();
+drawSheet();mixFlash();
 // 鍵盤
 g.textAlign='center';g.textBaseline='bottom';
 for(let k=S.lo;k<=S.hi;k++)if(!isB(k)){const[x,w]=S.x[k];g.fillStyle=held.has(k)?'#4cc9f0':act[k]||'#f2f2f2';g.fillRect(x+1,hy,w-2,h);if(S.nn)lab(nm(k,true),x+1,w-2,H-4,'#333')}
@@ -417,15 +477,18 @@ $('f').onchange=async e=>{const f=e.target.files[0];if(!f)return;try{const u=new
 $('pl').onclick=()=>{if(!S.len)return;if(S.playing){stopP(posNow());pushState()}else doPlay(S.pos)};
 $('sk').oninput=e=>{if(!S.len)return;const p=e.target.value/1000*S.len;if(S.playing)doPlay(p);else{S.pos=p;pushState()}};
 $('rt').onchange=e=>{const p=posNow(),r=+e.target.value;S.rate=r;if(S.playing)doPlay(p);else pushState()};
-$('nn').onchange=e=>{S.nn=+e.target.value;sv()};$('bl').onchange=sv;for(const id of['cm','mt','ci','wa'])$(id).onchange=sv;$('hd').onchange=()=>{fit();sv()};
+$('nn').onchange=e=>{S.nn=+e.target.value;sv()};$('bl').onchange=sv;for(const id of['wa'])$(id).onchange=sv;for(const id of['mt','ci'])$(id).onchange=()=>{sv();mixTop()};$('cm').onchange=()=>{sv();renderMix()};$('hd').onchange=()=>{fit();sv()};
 for(let v=-12;v<=12;v++)$('tp').add(new Option((v>0?'+':'')+v+(v==0?'（原曲）':''),v));$('tp').value=0;
 $('tp').onchange=()=>{const v=+$('tp').value;S.tp=v;for(const n of S.notes)n.p=Math.max(0,Math.min(127,n.p0+v));for(const[k,r]of held)r(ac.currentTime);held.clear();fit();buildSheet()};
-$('pv').onchange=sv;$('snd').onchange=()=>{loadSong();sndUI();sv()};for(const id of['pd','sh','ss'])$(id).onchange=sv;rcUI();
+for(const id of['vAll','pv','vBk','vCt','vMt']){$(id).oninput=()=>{mixApply();mixTop()};$(id).onchange=sv}
+for(const b of document.querySelectorAll('#mx .mb'))b.onclick=()=>{const k=b.dataset.m;if(k=='ci'||k=='mt'){$(k).checked=!$(k).checked;sv()}else MX.mu[k]=!MX.mu[k];mixApply();mixTop()};
+$('mxr').onclick=()=>{for(const t of S.tr){t.vol=100;t.mu=t.so=false}renderMix();mixApply()};
+$('mxb').onclick=()=>mxShow($('mx').hidden,true);$('mxc').onclick=()=>mxShow(false,true);$('snd').onchange=()=>{loadSong();sndUI();sv()};for(const id of['pd','sh','ss'])$(id).onchange=sv;rcUI();
 $('fe').onchange=()=>{if(!$('fe').checked)S.sel=-1};
 for(let p=48;p<=72;p++)$('sp').add(new Option(CN[p%12]+(Math.floor(p/12)-1)+(p==60?'（真ん中のド）':''),p));$('sp').value=60;$('sp').onchange=()=>{S.sp=+$('sp').value;fit();buildSheet();sv()};$('kr').onchange=()=>{fit();sv()};$('zm').onchange=sv;
 $('cf').onclick=()=>{$('pn').style.top=($('bar').offsetHeight+6)+'px';$('pn').style.maxHeight='calc(100% - '+($('bar').offsetHeight+16)+'px)';$('pn').hidden=!$('pn').hidden};$('x').onclick=()=>$('pn').hidden=true;
-if(PR.nn!=null){S.nn=+PR.nn;$('nn').value=PR.nn}if(PR.bl!=null)$('bl').checked=PR.bl;if(PR.zm)$('zm').value=PR.zm;if(PR.kr)$('kr').value=PR.kr;if(PR.cm)$('cm').value=PR.cm;if(PR.mt!=null)$('mt').checked=PR.mt;if(PR.ci!=null)$('ci').checked=PR.ci;if(PR.wa)$('wa').value=PR.wa;if(PR.hd)$('hd').value=PR.hd;if(PR.sp){S.sp=+PR.sp;$('sp').value=PR.sp}if(PR.pv!=null)$('pv').value=PR.pv;if(PR.snd)$('snd').value=PR.snd;if(PR.pd!=null)$('pd').checked=PR.pd;if(PR.sh)$('sh').value=PR.sh;if(PR.ss)$('ss').value=PR.ss;
-addEventListener('resize',rs);addEventListener('pointerdown',()=>{if(ac)au()});rs();mi();draw();send(mk('hello',{plays:plays()}));
+if(PR.nn!=null){S.nn=+PR.nn;$('nn').value=PR.nn}if(PR.bl!=null)$('bl').checked=PR.bl;if(PR.zm)$('zm').value=PR.zm;if(PR.kr)$('kr').value=PR.kr;if(PR.cm)$('cm').value=PR.cm;if(PR.mt!=null)$('mt').checked=PR.mt;if(PR.ci!=null)$('ci').checked=PR.ci;if(PR.wa)$('wa').value=PR.wa;if(PR.hd)$('hd').value=PR.hd;if(PR.sp){S.sp=+PR.sp;$('sp').value=PR.sp}if(PR.pv!=null)$('pv').value=PR.pv;for(const k of['vAll','vBk','vCt','vMt'])if(PR[k]!=null)$(k).value=PR[k];MX.open=PR.mxo;if(PR.snd)$('snd').value=PR.snd;if(PR.pd!=null)$('pd').checked=PR.pd;if(PR.sh)$('sh').value=PR.sh;if(PR.ss)$('ss').value=PR.ss;
+addEventListener('resize',mxPlace);mixTop();renderMix();mxShow(MX.open??mxDock(),false);addEventListener('pointerdown',()=>{if(ac)au()});rs();mi();draw();send(mk('hello',{plays:plays()}));
 </script>
 <!-- アクセス数の集計（GoatCounter：Cookieを使わず、個人を特定しない） -->
 <script data-goatcounter="https://pikadrum.goatcounter.com/count" async src="https://gc.zgo.at/count.js"></script>

diff --git a/index.html b/index.html
@@ -70,10 +70,11 @@ footer{margin-top:34px;font-size:12px;color:var(--dim);border-top:1px solid var(
     <details class="feat"><summary>🎼 MIDIファイルを落ちてくるノーツに</summary><div><p>MIDIファイルを読み込むと、弾く音が上から落ちてきて、弾くときに鍵盤が光ります。小節線と小節番号、音名（ドレミ・CDE）も出せます。鍵盤は自分の弾くパートに合わせた数だけ表示し、25〜88鍵から選んだり、2本指のピンチで増やしたり減らしたりもできます。</p></div></details>
     <details class="feat"><summary>🖐 右手・左手を分けて練習</summary><div><p>トラックごとに右手・左手を決めるか、音の高さで分けます。片手だけ練習するときは、もう片方の手を自動で鳴らします。ノーツは手ごとに色分け（右手＝緑、左手＝青）します。</p><img src="img/hands.jpg" alt="右手だけを練習している画面。左手の音符は灰色" loading="lazy" class="tall"></div></details>
     <details class="feat"><summary>📝 楽譜も表示（簡易版）</summary><div><p>画面の上に大譜表（ト音記号とヘ音記号）を出し、曲に合わせて流します。今鳴っている音は青、弾けた音は緑、ミスは赤になります。MIDIから自動で作るので、休符や連桁など、省いているところがあります。</p></div></details>
+    <details class="feat"><summary>🎚 画面に出したままのミキサー</summary><div><p>全体・自分の音・伴奏・カウント・メトロノームの音量と、パートごとの音量・ミュート・ソロ。パートは「自分が弾くパート」と「伴奏のパート」に分けて並び、その場で演奏／自動／消音を切り替えられます。パソコンでは画面の左に出したまま、スマホでは「🎚 音量」で開きます。</p></div></details>
     <details class="feat"><summary>🎯 タイミングの判定と採点</summary><div><p>弾くたびに「ぴったり・早い・遅い・ミス」とコンボ数を表示します。曲の最後まで弾くと、ランク（S〜D）と点数が出て、曲ごと・片手／両手ごとの自己ベストを記録します。</p><img src="img/result.jpg" alt="曲の終わりに出る結果の画面" loading="lazy" class="tall"></div></details>
     <details class="feat"><summary>⏸ 弾くまで待つモード</summary><div><p>正しい鍵を押すまで、曲がその場で止まって待ちます。和音のときは「全部押すまで待つ」か「どれか1音で進む」を選べます。</p></div></details>
     <details class="feat"><summary>🔁 ループ・テンポ・メトロノーム</summary><div><p>小節を選んでループ、テンポは25〜150%（5%刻み）。メトロノームと、再生前の1小節のカウントも鳴らせます。</p></div></details>
-    <details class="feat"><summary>🔊 選べる音色</summary><div><p>楽器ごとの高音質の音色（ネットから読み込み）、内蔵のピアノの音、シンプルな音から選べます。MIDIファイルのペダル（サステイン）、移調（±12半音）、トラックごとの音量にも対応しています。</p><img src="img/settings.jpg" alt="音色と楽譜の設定の画面" loading="lazy" class="tall"></div></details>
+    <details class="feat"><summary>🔊 選べる音色</summary><div><p>楽器ごとの高音質の音色（ネットから読み込み）、内蔵のピアノの音、シンプルな音から選べます。MIDIファイルのペダル（サステイン）と移調（±12半音）にも対応しています。</p><img src="img/settings.jpg" alt="音色と楽譜の設定の画面" loading="lazy" class="tall"></div></details>
     <details class="feat"><summary>✍ 運指を書き込める</summary><div><p>「設定」で「運指を書く」をオンにすると、ノーツを押して指番号（1〜5）を書き込めます。曲ごとにブラウザに保存されます。</p></div></details>
     <details class="feat"><summary>🥁 ドラム練習スコープと同期</summary><div><p>同じブラウザでドラム練習スコープと開くと、再生・停止・位置・テンポ・ループがそろいます。別の端末とは、同じ部屋番号を入れてつなぎます。曲の受け渡しや、相手が弾くパートを自分の伴奏から消すこともできます。<b>まだ作っている途中で、ドラム側とつないだ確認はこれからです。</b></p></div></details>
   </div>
@@ -95,8 +96,9 @@ footer{margin-top:34px;font-size:12px;color:var(--dim);border-top:1px solid var(
     <details class="feat"><summary>📖 使い方</summary><div>
       <ul>
         <li>「ソフトを開く」から開き、左上の「MIDI」でMIDIファイルを選んで、▶ で再生します。</li>
-        <li>はじめは、いちばん高い音域のトラックが「演奏」（自分で弾く）、ほかは「自動」（伴奏）になります。「設定」のトラックの一覧で、演奏／自動／消音と、右手／左手／分割を変えられます。</li>
+        <li>はじめは、いちばん高い音域のトラックが「演奏」（自分で弾く）、ほかは「自動」（伴奏）になります。ミキサーで演奏／自動／消音を、「設定」のトラックの一覧で右手／左手／分割を変えられます。</li>
         <li>弾き方は3通りです。MIDIキーボード、画面の鍵盤（指をすべらせると鍵が切り替わります）、パソコンのキーボード（<kbd>Z</kbd>〜<kbd>/</kbd> の段と <kbd>Q</kbd>〜<kbd>]</kbd> の段。<kbd>←</kbd> <kbd>→</kbd> でオクターブ、<kbd>Space</kbd> で再生／停止）。</li>
+        <li>上のバーの「🎚 音量」でミキサーを開け閉めします（パソコンなど広い画面では、はじめから左に出ています）。名前のボタンを押すと、その音をミュートします（カウントとメトロノームは、オン・オフ）。パートの「M」はミュート、「S」はソロです。</li>
         <li>上のバーの「ループ」は、1回目で今の小節を始まりに、2回目で今の小節を終わりにします。3回目で解除です。「設定」で小節番号を入れて決めることもできます。</li>
         <li>上のバーで、テンポ、「通常／待つ」、「両手／右手／左手」、ノーツの落ちる速さを選べます。</li>
         <li>鍵盤の数は、ノーツが落ちてくる所を2本指でピンチして増やしたり減らしたりできます。2本指のまま横に動かすと左右に移動します。パソコンではホイールで増減、<kbd>Shift</kbd>＋ホイールで移動します。</li>

diff --git a/docs/鍵盤側の引き継ぎ.md b/docs/鍵盤側の引き継ぎ.md
@@ -34,7 +34,8 @@
 - **MIDIの読み込み**：1つのトラックに複数のチャンネルが入っている曲（フォーマット0。市販のGS/XGの曲に多い）は、チャンネルごとに別のトラックに分けて表示する（名前は「トラック名 Ch番号 楽器名」）。以前は最初の音のチャンネルでトラック全体を決めていたため、ドラム（Ch10）から始まる曲が全部消音になり、何も出ず鳴らなかった（2026/10/24 に修正）。
 - **SysEx の読み込みの不具合（2026/10/24 に修正）**：SysEx（F0/F7）の長さを読み飛ばす所で、長さの数値の分だけ位置がずれていた（`o+=vl()` は vl() が o を進める前の値に足してしまう）。SysEx が入っている曲（ヤマハ・ローランドの市販曲など）は、そこから後の時刻がでたらめになり、曲の長さが何十分にもなったり、ノーツや楽譜が出なかったりした。
 - **最初に「演奏」にするパート**：効果音・パッド（音色88〜103、112以降）とドラムを除き、単音（重なりが1割未満）で、平均の高さが55〜88、16音以上のうち、音の数がいちばん多いもの。なければ平均の高さがいちばん高いもの。歌詞（メタイベント05）はヤマハのXFの曲にも入っていないことがあるので使っていない。
-- **トラック**：演奏／自動／消音、右手／左手／分割（設定した高さから上が右手。初期値C4）、トラックごとの音量。初期値は、いちばん高い音域のトラックが「演奏」、ドラム（Ch10）は消音、手はトラック名（right/左 など）→演奏トラックは分割→ほかは平均の高さ。
+- **ミキサー**（2026/10/24）：上のバーの「🎚 音量」で開け閉め。幅900px以上では左に固定（幅230px）してノーツの所を狭め、狭い画面では重ねて出す（初めは広い画面だけ開く。開け閉めは保存）。上の段：全体・自分の音・伴奏・カウント・メトロノーム（名前のボタンで、全体・自分・伴奏はミュート、カウント・メトロノームはオン・オフ）。下：パートごとに色・名前・M（ミュート）・S（ソロ）・演奏/自動/消音・音量。「自分が弾くパート」と「伴奏のパート」に分けて並べる。鳴った音に合わせて色の丸が光る。音の流れ：各パートのGain→伴奏→全体、自分の音・カウント・メトロノームはそれぞれのGain→全体。パートの音量・ミュート・ソロは曲を開くと初期値（保存しない）、上の段の音量は保存。
+- **トラック**：演奏／自動／消音、右手／左手／分割（設定した高さから上が右手。初期値C4）。音量はミキサーで。初期値は、いちばん高い音域のトラックが「演奏」、ドラム（Ch10）は消音、手はトラック名（right/左 など）→演奏トラックは分割→ほかは平均の高さ。
 - **弾き方**：MIDIキーボード（Web MIDI、ペダルCC64にも対応）、画面の鍵盤（マルチタッチ、指をすべらせると切り替わる）、パソコンのキーボード（Z〜/ と Q〜] の2段、← → でオクターブ、スペースで再生／停止。物理キーの位置で判定）。
 - **練習**：通常／待つ（弾くまで止まる。和音は「全部押すまで」か「どれか1音で」。判定線の0.08秒前より早い入力は数えない）。両手／右手／左手（弾かない手は自動で鳴る）。区間ループ（小節単位。ボタン2回か小節番号の入力）。テンポ25〜150%（5%刻み）。メトロノーム（小節の頭は高い音）。再生前の1小節カウント。移調（±12半音、曲を開くと0に戻る）。
 - **運指**：「運指を書く」をオンにして、ノーツを押すたびに 1→5→なし。PCは数字キー。曲名と音の数をキーにして localStorage に保存。
